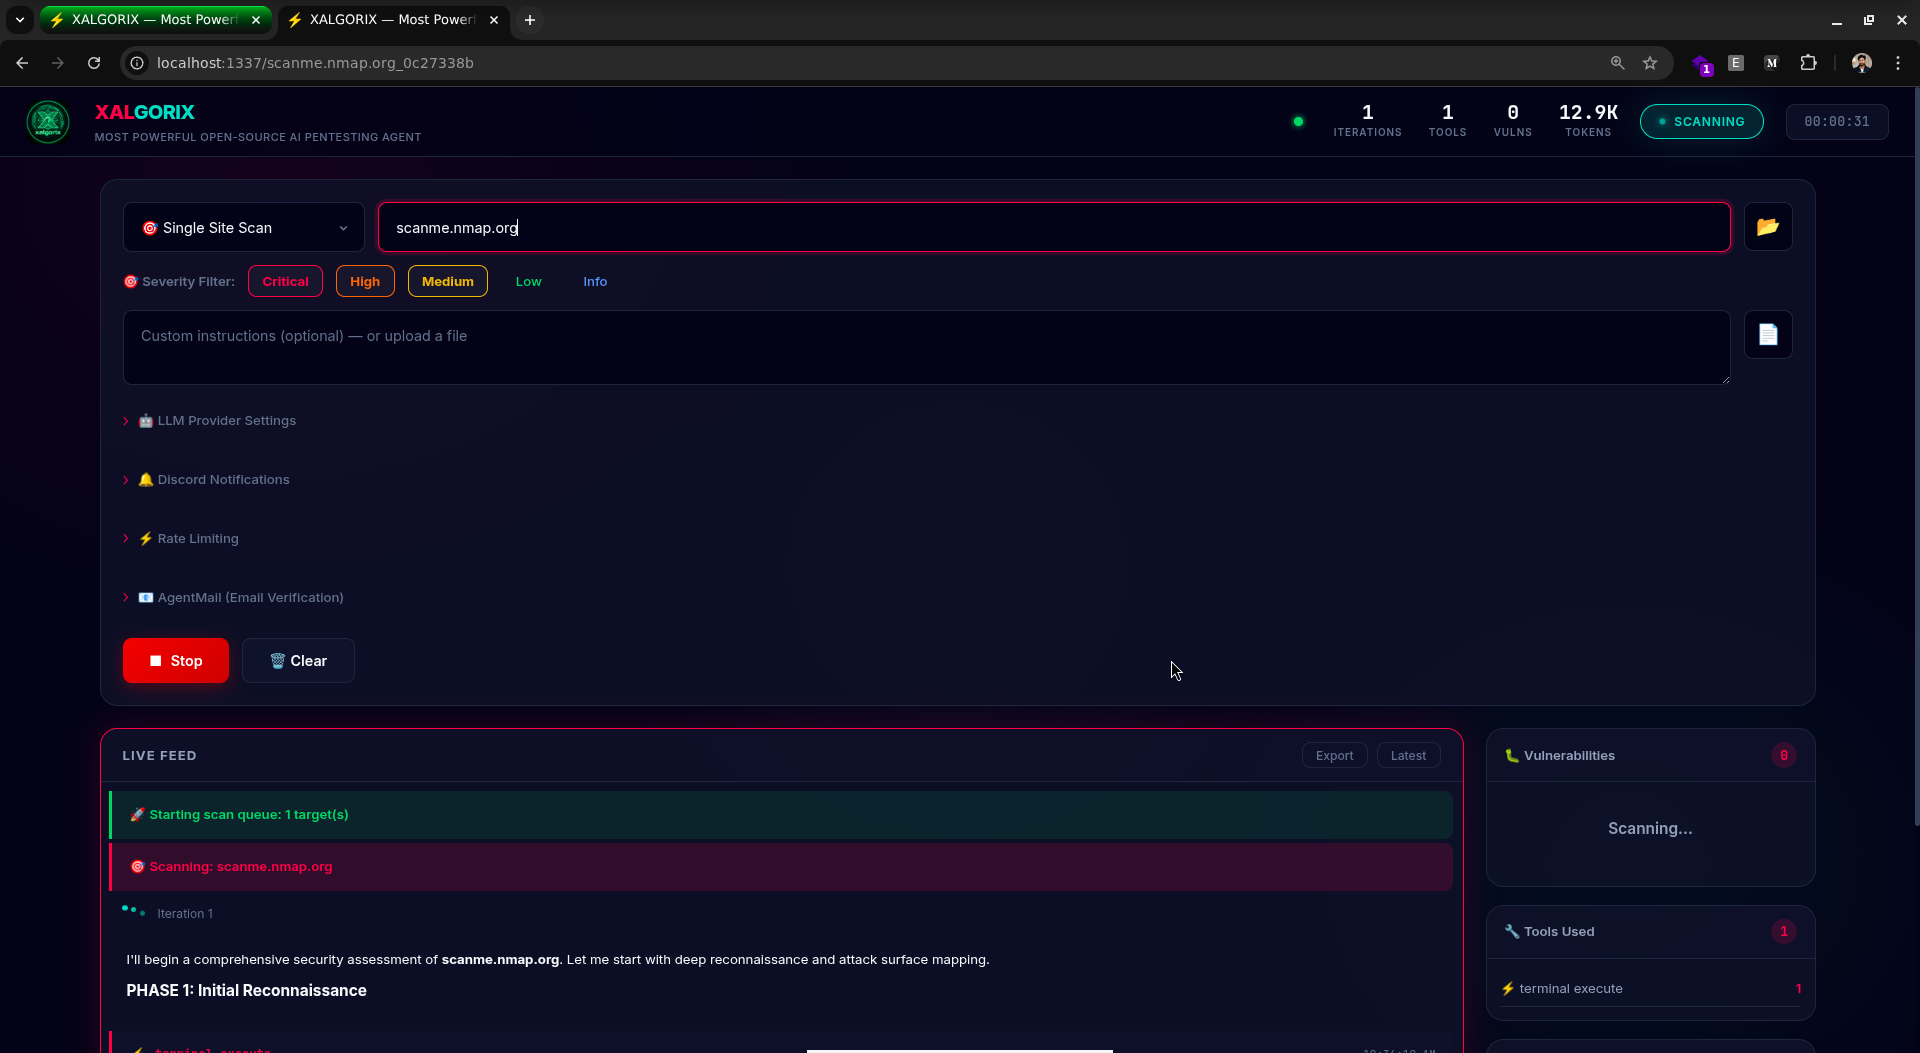
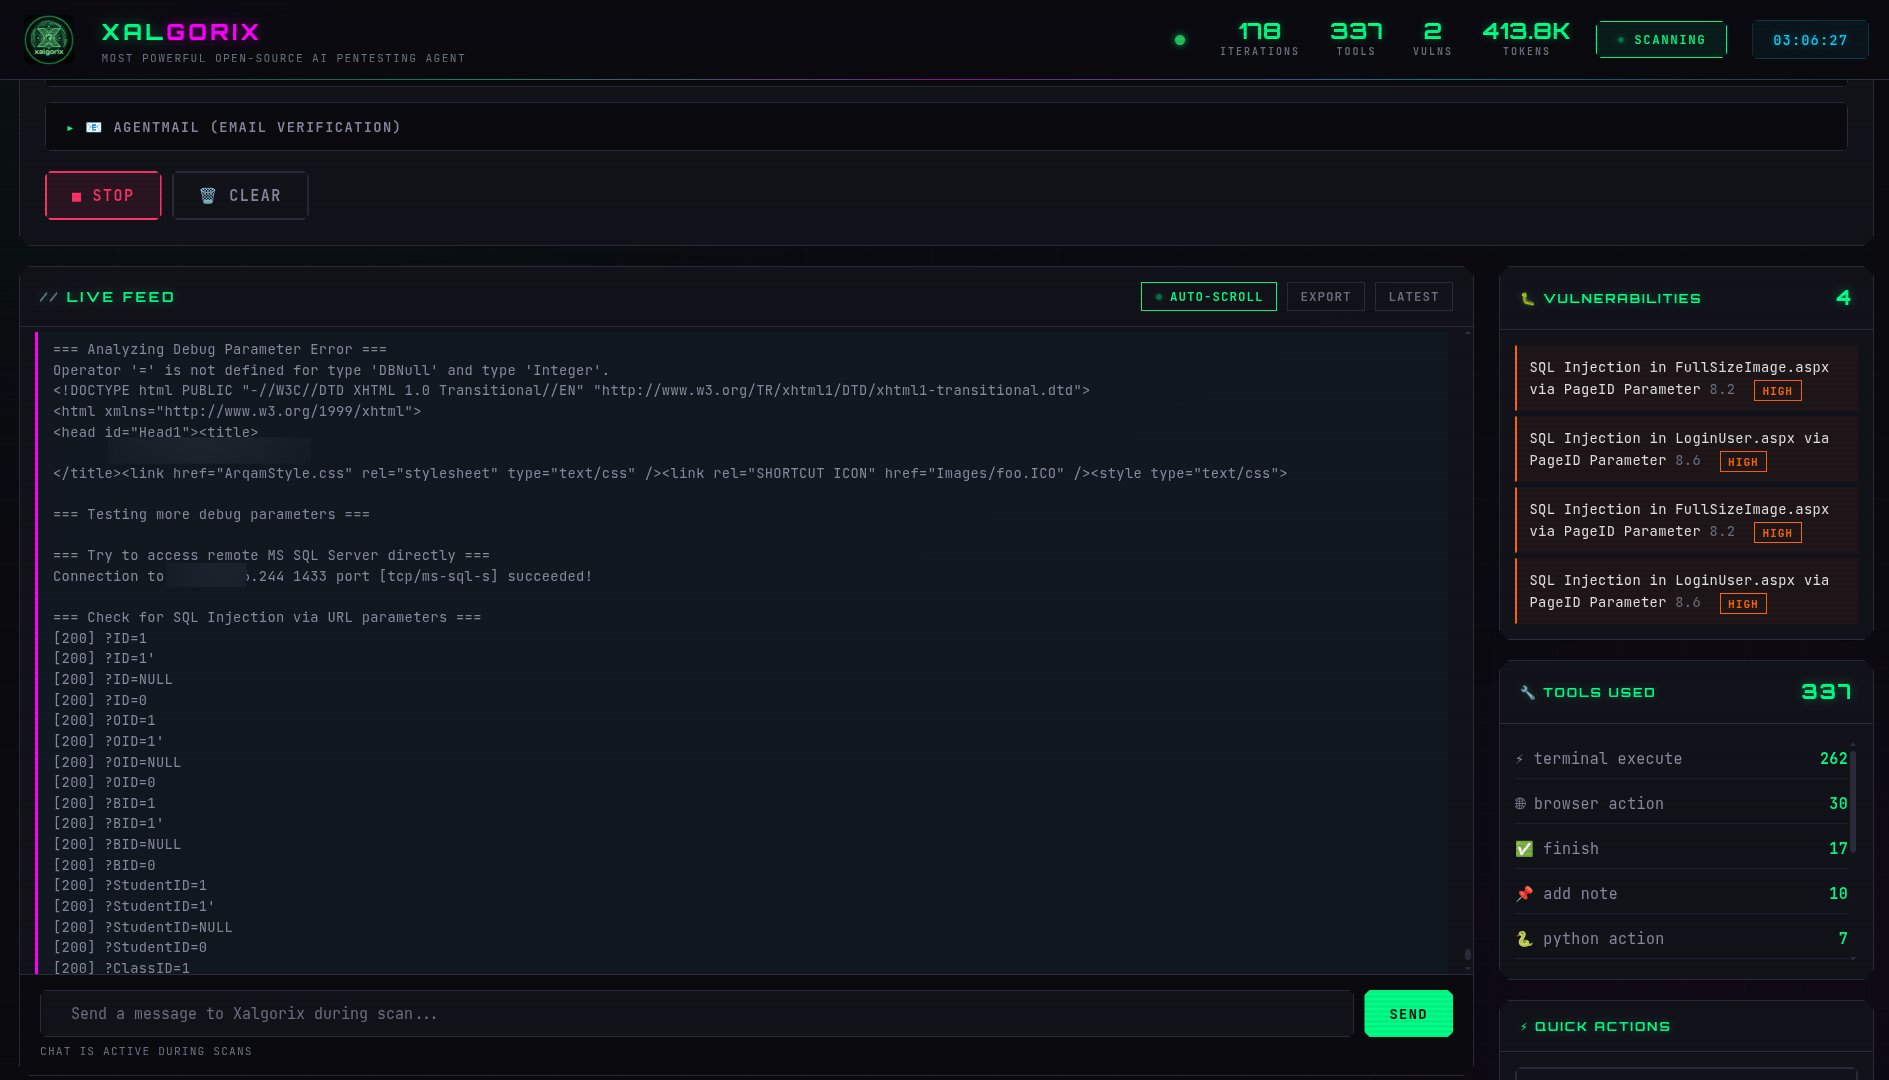
Update README screenshots with new UI images

diff --git a/README.md b/README.md
@@ -25,6 +25,9 @@
 ### Vulnerability Details
 ![Vulnerability Details](assets/ui-screenshot-3.png)
 
+### Chat Interface
+![Chat Interface](assets/ui-screenshot-4.png)
+
 ---
 
 ## 🚀 Xalgorix — The Most Powerful Open-Source AI Pentesting Agent